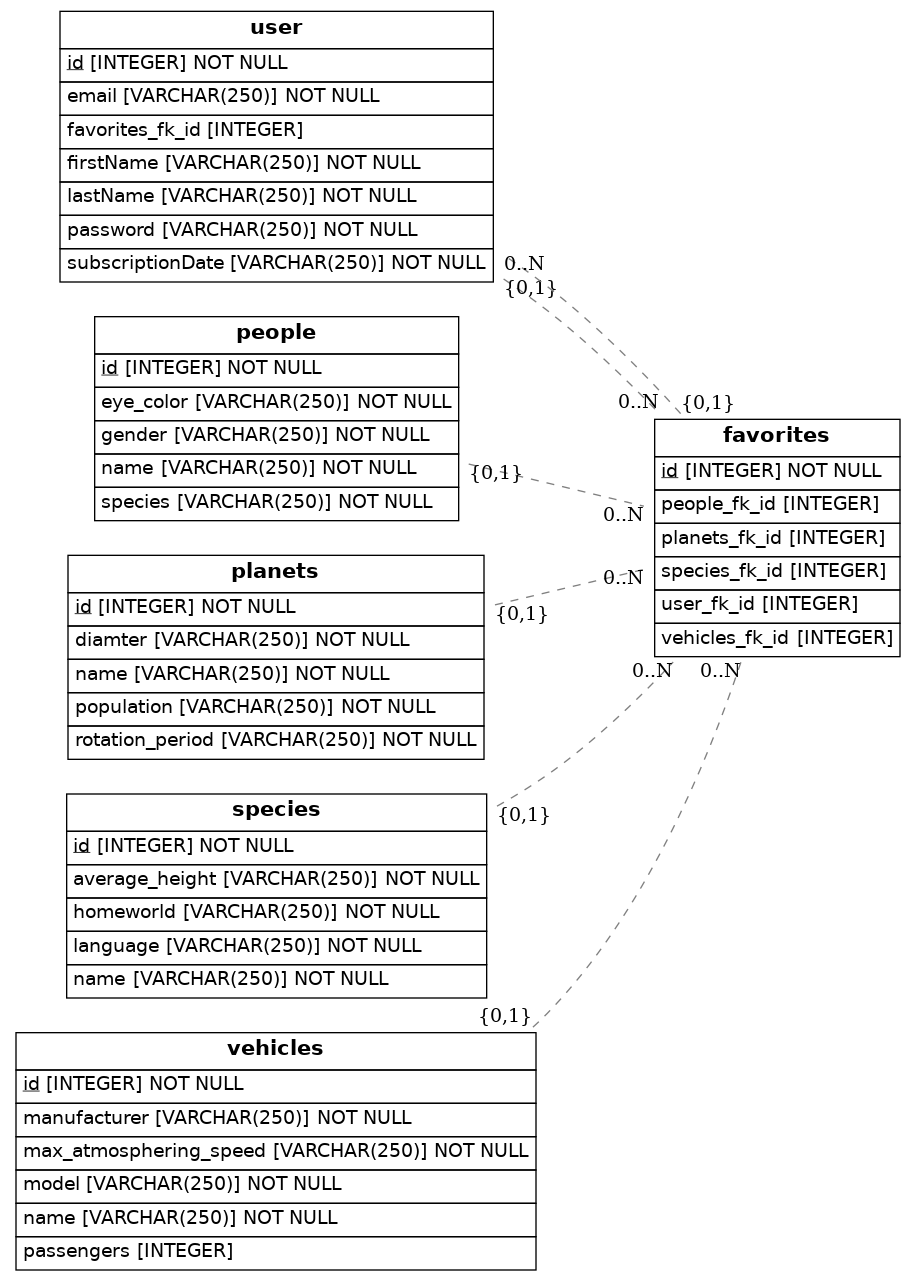
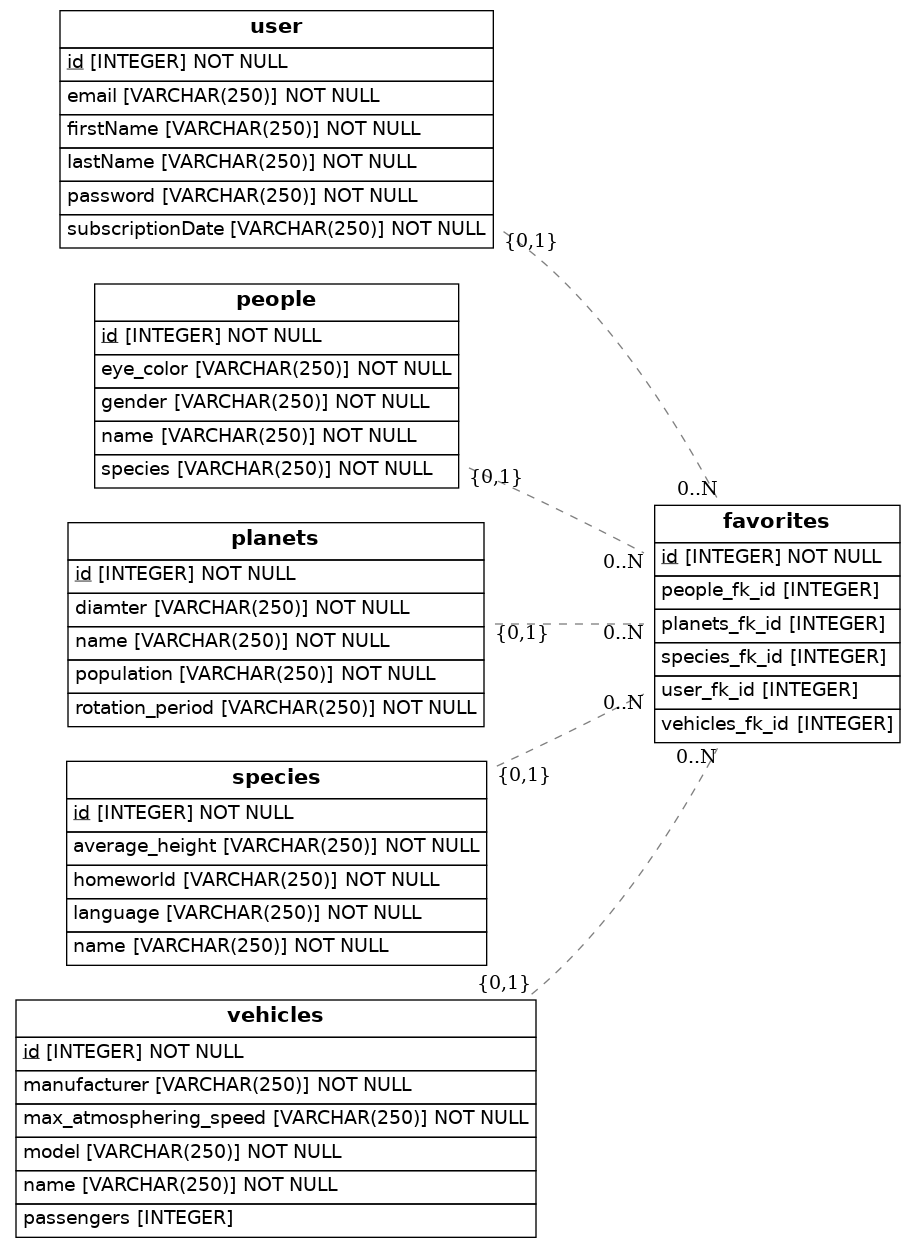
diagramaStarwars

Changed region(s): [[0.0, 0.0, 0.6114, 1.0], [0.6419, 0.3125, 1.0, 0.625], [0.6725, 0.2812, 0.7031, 0.3125]]

diff --git a/src/models.py b/src/models.py
@@ -17,7 +17,7 @@ class User(Base):
     firstName = Column(String(250), nullable=False)
     password = Column(String(250), nullable=False)
     subscriptionDate = Column(String(250), nullable=False)
-    favorites_fk_id = Column(Integer, ForeignKey('favorites.id'))
+    
     
 
 
